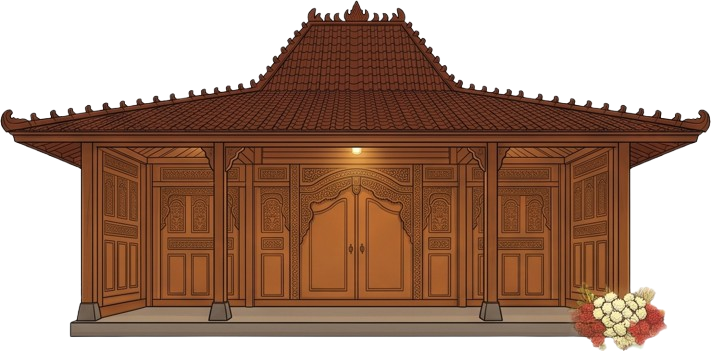
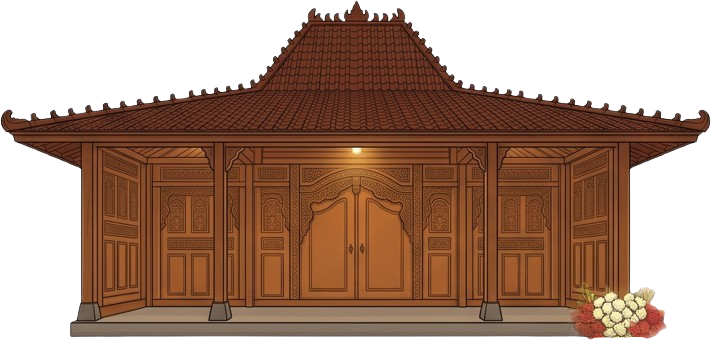
fix: cut rumah joglo flower

diff --git a/src/components/Pelaminan.tsx b/src/components/Pelaminan.tsx
@@ -131,7 +131,7 @@ export default function PelaminanScene() {
             <img
                 src="/pelaminan/semak_bunga.png"
                 alt=""
-                className={`absolute -right-[1%] bottom-0 w-[22%] h-auto z-45 object-contain -scale-x-100 transition-all duration-1000 delay-500 ease-out ${assembled
+                className={`absolute right-[0%] bottom-0 w-[22%] h-auto z-45 object-contain -scale-x-100 transition-all duration-1000 delay-500 ease-out ${assembled
                     ? "translate-x-0 translate-y-0 opacity-100"
                     : "translate-x-10 translate-y-6 opacity-0"
                     }`}
